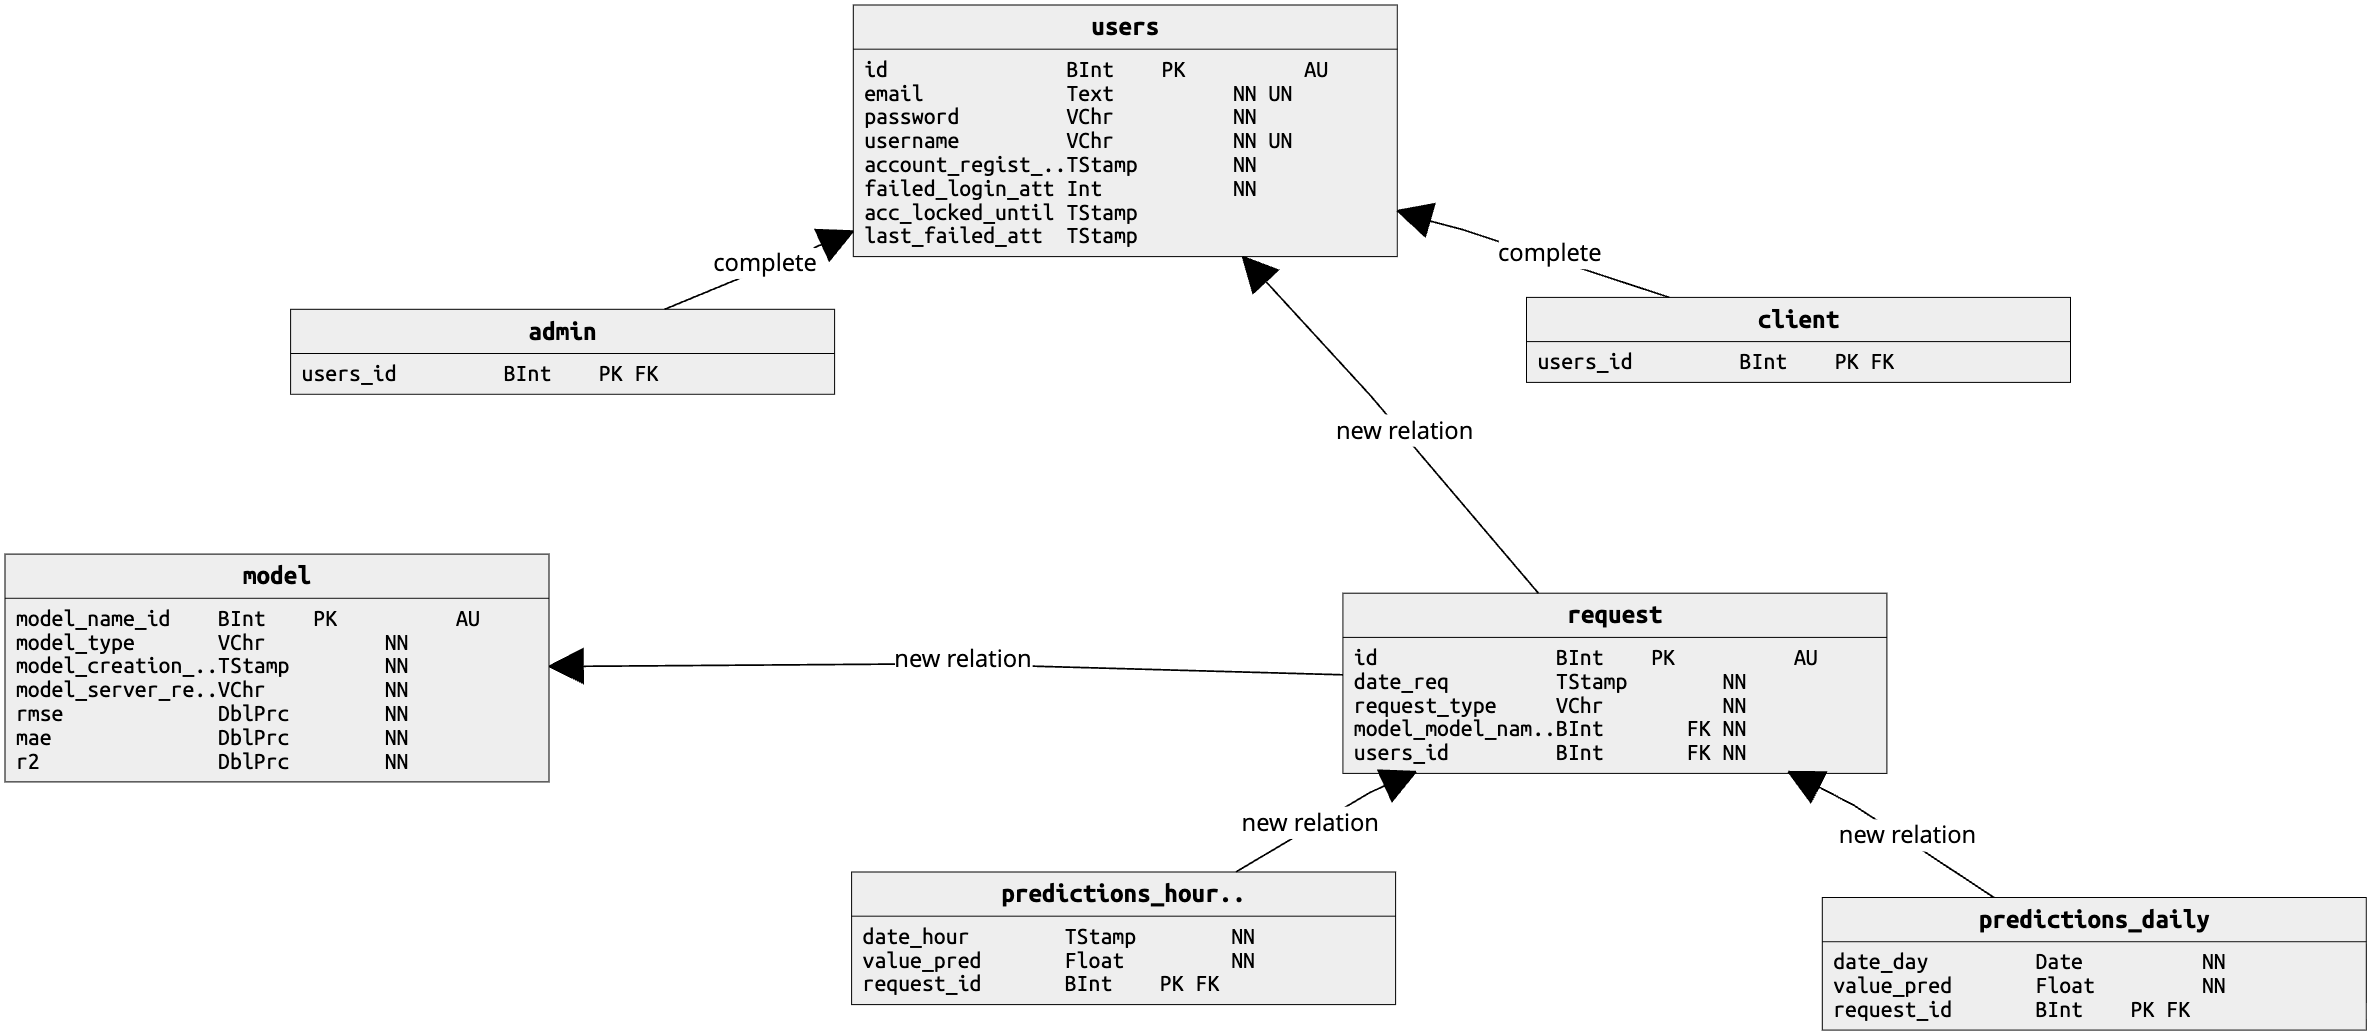
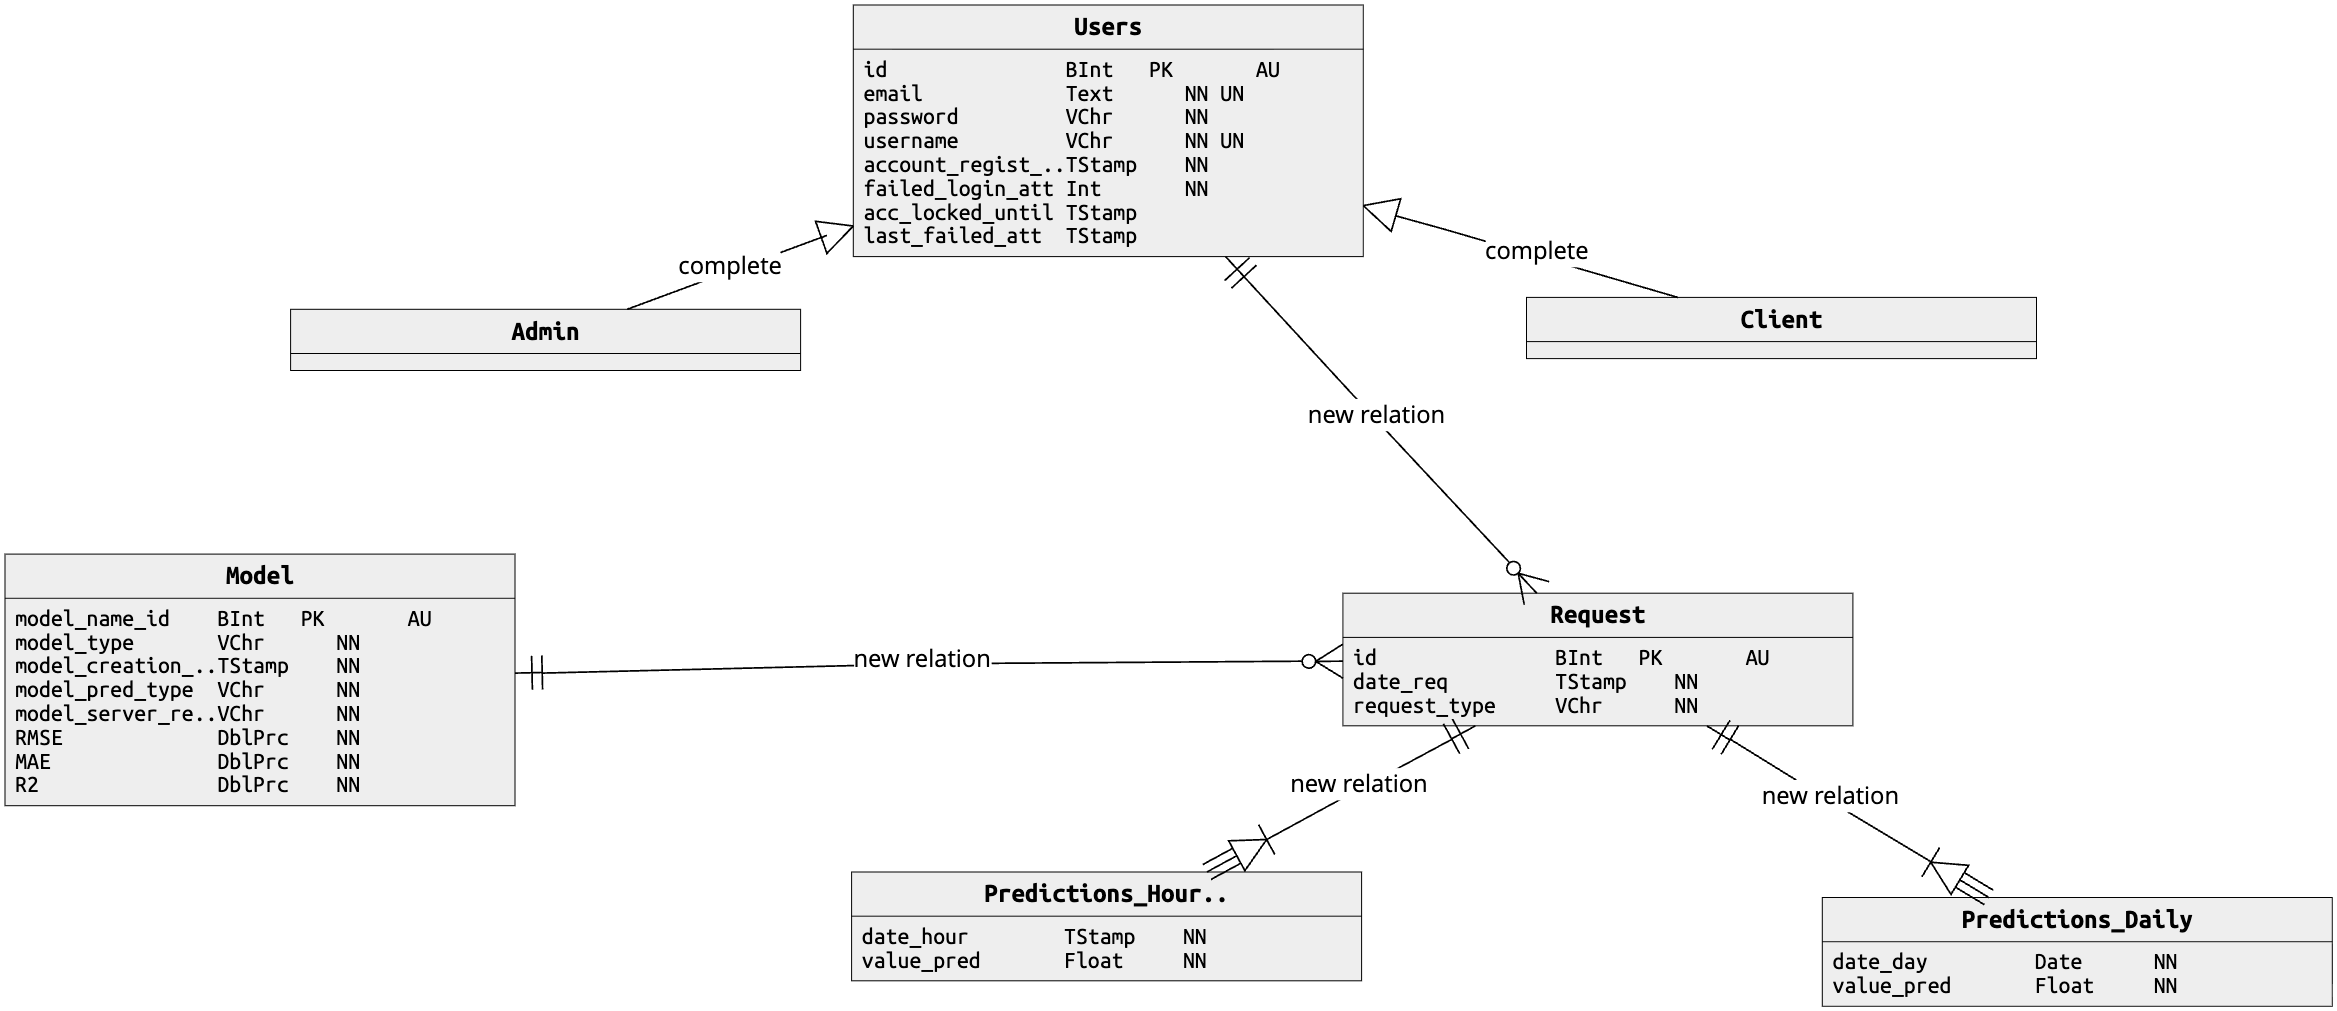
DB error

diff --git a/Code/energy_prediction_system/tests/unit/test_modeling.py b/Code/energy_prediction_system/tests/unit/test_modeling.py
@@ -182,21 +182,29 @@ class TestDatabaseManager(unittest.TestCase):
         manager.save_model_metrics("RF", "path", 1.0, 1.0, 1.0) 
 
     @patch('data_pipeline.modeling.psycopg2.connect')
-    def test_save_model_metrics_exception(self, mock_connect):
-        """Garante que se a Base de dados estiver em baixo, o treino do modelo não é deitado ao lixo"""
-        db_config = {"dbname": "test_db"}
+    def test_save_model_metrics_success(self, mock_connect):
+        """Testa se a query de inserção correta é chamada sem erros"""
+        db_config = {"dbname": "test_db", "user": "test"}
         manager = DatabaseManager(db_config)
-        mock_connect.side_effect = Exception("Database is down!")
         
-        # Mesmo com erro simulado, não deve lançar a exceção para cima e matar a run
-        try:
-            manager.save_model_metrics("RF", "path", 1.0, 1.0, 1.0)
-            failed = False
-        except Exception:
-            failed = True
-            
-        self.assertFalse(failed, "A exceção de DB não foi tratada pelo try/except e parou a pipeline!")
+        # Simula o Context Manager do psycopg2 (with conn.cursor()...)
+        mock_conn = MagicMock()
+        mock_cursor = MagicMock()
+        mock_connect.return_value.__enter__.return_value = mock_conn
+        mock_conn.cursor.return_value.__enter__.return_value = mock_cursor
 
+        # Adicionado o 'hourly' como 2º argumento
+        manager.save_model_metrics("Random Forest", "hourly", "models/hourly/RF_v1.joblib", 10.5, 5.2, 0.95)
+        
+        # Garante que o cur.execute foi chamado
+        self.assertTrue(mock_cursor.execute.called)
+        
+        # Verifica se os argumentos passados para a BD estão corretos
+        call_args = mock_cursor.execute.call_args[0]
+        self.assertIn("INSERT INTO model", call_args[0])
+        
+        # Adicionado o 'hourly' na verificação da tupla também!
+        self.assertEqual(call_args[1], ("Random Forest", "hourly", "models/hourly/RF_v1.joblib", 10.5, 5.2, 0.95))
 
 class TestPipelineOrchestrator(unittest.TestCase):
     """Testa a nova classe de orquestração do pipeline completo"""

diff --git a/Code/energy_prediction_system/src/data_pipeline/modeling.py b/Code/energy_prediction_system/src/data_pipeline/modeling.py
@@ -448,11 +448,13 @@ class PipelineOrchestrator:
         db_model_name = "Linear Regression" if model_type == "baseline" else "Random Forest"
         self.db_manager.save_model_metrics(
             model_type=db_model_name,
-            file_path=caminho_relativo,  # <-- O caminho limpo vai aqui!
+            model_pred_type=freq,       
+            file_path=caminho_relativo,  
             rmse=best_rmse,
             mae=best_mae,
             r2=best_r2
         )
+    
     def _run_strategy_loops(self, model_type, strategy, datasets, splits_by_strategy):
         """Executa os loops de treino para uma estratégia específica sobre os datasets."""
         logger.info(f"  Strategy: {strategy}")

diff --git a/Code/energy_prediction_system/tests/integration/test_pipeline.py b/Code/energy_prediction_system/tests/integration/test_pipeline.py
@@ -143,7 +143,14 @@ class TestModelingFullCoverage(unittest.TestCase):
         
         # Se a pipeline quebrar aqui, o teste falha (o objetivo é que o except apanhe o erro silenciosamente)
         try:
-            manager.save_model_metrics("RF", "path/model.joblib", 1.0, 1.0, 1.0)
+            manager.save_model_metrics(
+                model_type="RF", 
+                model_pred_type="hourly",      # <-- O parâmetro novo!
+                file_path="path/model.joblib", 
+                rmse=1.0, 
+                mae=1.0, 
+                r2=1.0
+            )
             passed = True
         except Exception:
             passed = False

diff --git a/Design/DESIGN.md b/Design/DESIGN.md
@@ -285,13 +285,14 @@ Stores metadata and performance metrics of the trained models.
 
 | Column Name | Data Type | Constraints | Description |
 | :--- | :--- | :--- | :--- |
-| `model_name_id` | BigSerial | Primary Key | Unique model identifier. |
-| `model_type` | Varchar | Not Null | Type of machine learning model. |
-| `model_creation_date` | Timestamp | Default: CURRENT_TIMESTAMP | Date the model was registered or trained. |
-| `model_server_relative_path`| Varchar | Not Null | Server path to the model file. |
-| `rmse` | Double Precision | Not Null | Root Mean Square Error metric. |
-| `mae` | Double Precision | Not Null | Mean Absolute Error metric. |
-| `r2` | Double Precision | Not Null | R-squared metric. |
+| `model_name_id` | BIGSERIAL | Primary Key | Unique model identifier. |
+| `model_type` | VARCHAR(512) | Not Null | Type of machine learning model. |
+| `model_creation_date` | TIMESTAMP | Not Null, Default: CURRENT_TIMESTAMP | Date the model was registered or trained. |
+| `model_pred_type` | VARCHAR(512) | Not Null | Type of prediction the model makes (e.g., regression, classification). |
+| `model_server_relative_path`| VARCHAR(512) | Not Null | Server path to the model file. |
+| `rmse` | DOUBLE PRECISION | Not Null | Root Mean Square Error metric. |
+| `mae` | DOUBLE PRECISION | Not Null | Mean Absolute Error metric. |
+| `r2` | DOUBLE PRECISION | Not Null | R-squared metric. |
 
 **Table `request`**
 Logs the history of prediction requests made by users.
